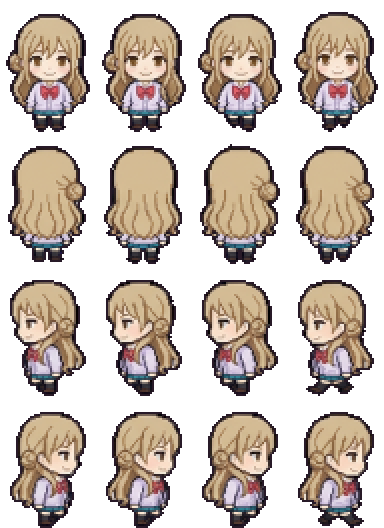
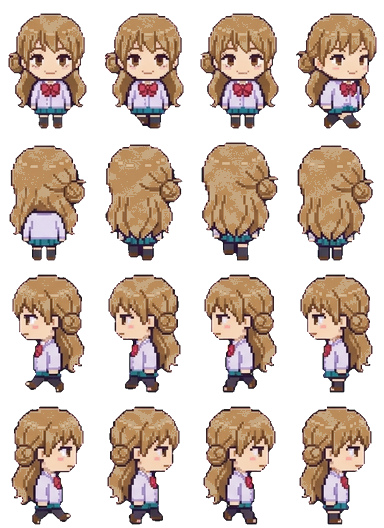
Redraw Kurumizawa Ume in the shared art style
Claude-Session: https://claude.ai/code/session_01KaPsBYLrtbRfMYNG2xeBCK

diff --git a/docs/app.js b/docs/app.js
@@ -75,7 +75,7 @@ function spr(cat, k, col, sc) {
   return `<div class="clip" style="width:${it[2] * sc}px;height:${it[3] * sc}px;POS"><img class="px" src="assets/decor/${cat}.png" alt="" style="width:${S.sw * sc}px;height:${S.sh * sc}px;margin-left:${-col * S.cw * sc}px;margin-top:${-i * S.ch * sc}px"></div>`;
 }
 const icon = (k, sz) => `<span class="itm" style="width:${sz}px;height:${sz}px"><img class="px" src="assets/ui/items.png" alt="" style="width:${IT.length * sz}px;height:${sz}px;margin-left:${-ITM[k].i * sz}px"></span>`;
-const face = (id, w) => { const s = w / 96; return `<img class="px" src="assets/ch/${id}.webp?v=55" alt="" style="position:absolute;width:${384 * s}px;height:${528 * s}px;left:${-(96 * s - w) / 2}px;top:0;max-width:none">`; };
+const face = (id, w) => { const s = w / 96; return `<img class="px" src="assets/ch/${id}.webp?v=56" alt="" style="position:absolute;width:${384 * s}px;height:${528 * s}px;left:${-(96 * s - w) / 2}px;top:0;max-width:none">`; };
 
 // ---------- 저장 ----------
 let fb = null, user = null, S = null, saveT = null;
@@ -143,7 +143,7 @@ function sleepHTML(id, r, dy) {
   const pos = r.a && r.a[0] === 'bed' ? 'left:3%;bottom:20%' : r.b && r.b[0] === 'bed' ? 'right:3%;bottom:20%' : 'left:calc(50% - 44px);bottom:6%';
   const s = 36 / 96;
   return `<div style="position:absolute;width:88px;height:56px;${pos};z-index:${dy ? 4 : 5};${dy ? `transform:translate(12px,${dy}px)` : ''}"><div style="position:absolute;inset:0;filter:brightness(.22)">
-    <div style="position:absolute;left:11px;top:1px;width:36px;height:50px;overflow:hidden;transform:rotate(-90deg)"><img class="px" src="assets/ch/${id}.webp?v=55" alt="" style="width:${384 * s}px;height:${528 * s}px;max-width:none;margin-top:${-132 * s}px"></div>
+    <div style="position:absolute;left:11px;top:1px;width:36px;height:50px;overflow:hidden;transform:rotate(-90deg)"><img class="px" src="assets/ch/${id}.webp?v=56" alt="" style="width:${384 * s}px;height:${528 * s}px;max-width:none;margin-top:${-132 * s}px"></div>
     <div style="position:absolute;left:19px;top:19px;width:67px;height:29px;border:2px solid var(--ink);border-radius:8px 6px 4px 4px;background:#8ccff5;background-image:repeating-linear-gradient(90deg,transparent 0 10px,rgba(255,255,255,.5) 10px 13px)"></div></div>
     ${dy ? '' : '<span class="emo" style="left:8px;top:-22px;color:#5b6bd6">Z z z</span>'}</div>`;
 }
@@ -153,8 +153,8 @@ function roomHTML(id, o, scale) {
     <div class="floor" style="background-color:${PAL[r.fc][1]};background-image:${tileUrl('floor', r.fl)}"></div>
     ${slot('deco', r.dc, 'left:6%;top:6%')}${slot('furn', r.a, 'left:3%;bottom:20%')}${slot('furn', r.b, 'right:3%;bottom:20%')}${slot('prop', r.pr, 'left:28%;bottom:4%;z-index:2')}
     ${id && o.sleeping && g ? sleepHTML(g, r, -16) : ''}${id && o.sleeping ? sleepHTML(id, r) : ''}${id && o.job ? `<div style="position:absolute;left:50%;top:38%;transform:translateX(-50%);z-index:5;background:#fff;border:3px solid var(--ink);border-radius:10px;padding:6px 10px;font-size:11px;text-align:center;line-height:1.5"><img src="assets/ui/ic_job.png" alt="" style="width:18px;vertical-align:-4px"> ${WORK[id] ? WORK[id][1] : esc(JOB_NAME[id]) + ' 알바 중'}${g ? `<br><small>${esc(nameOf(g))}도 같이</small>` : ''}<br><b id="jobleft">${timeLeft(o.job.until)}</b></div>` : ''}
-    ${id ? `<div class="shadow" id="shd" ${o.sleeping || o.job ? 'style="display:none"' : ''}></div><div class="man" id="man" ${o.sleeping || o.job ? 'style="display:none"' : ''}><img class="px" src="assets/ch/${id}.webp?v=55" alt="${esc(nameOf(id))}"></div><span class="emo" id="emo" hidden></span><span class="mumble" id="mum" hidden></span>` : ''}
-    ${g ? `<div class="shadow" id="gshd" ${hideG}></div><div class="man" id="gman" ${hideG}><img class="px" src="assets/ch/${g}.webp?v=55" alt="${esc(nameOf(g))}"></div><span class="emo" id="gemo" hidden></span><span class="mumble gmum" id="gmum" hidden></span>` : ''}
+    ${id ? `<div class="shadow" id="shd" ${o.sleeping || o.job ? 'style="display:none"' : ''}></div><div class="man" id="man" ${o.sleeping || o.job ? 'style="display:none"' : ''}><img class="px" src="assets/ch/${id}.webp?v=56" alt="${esc(nameOf(id))}"></div><span class="emo" id="emo" hidden></span><span class="mumble" id="mum" hidden></span>` : ''}
+    ${g ? `<div class="shadow" id="gshd" ${hideG}></div><div class="man" id="gman" ${hideG}><img class="px" src="assets/ch/${g}.webp?v=56" alt="${esc(nameOf(g))}"></div><span class="emo" id="gemo" hidden></span><span class="mumble gmum" id="gmum" hidden></span>` : ''}
     ${o.sleeping ? `<div class="night"></div><div class="sleepleft">쿨쿨 · 일어나기까지 <b id="sleepleft">${timeLeft(wakeAt(o)).replace(' 남음', '')}</b></div>` : ''}
   </div>`;
 }
@@ -167,7 +167,7 @@ function meterHTML(o) {
 const ic = (act, img, label, pressed) => `<button class="ic" data-act="${act}" ${pressed ? 'aria-pressed="true"' : ''}><img src="assets/ui/ic_${img}.png?v=2" alt="">${label}</button>`;
 
 let dropStyle = null; const cheat = {};
-const APP_V = 127, COUPONS = { NINOGUYA: 3000 };
+const APP_V = 128, COUPONS = { NINOGUYA: 3000 };
 // 쿠폰 입력 정리: 한글 자판 상태로 친 글자(ㅜㅑㅜㅐ혀ㅛㅁ)도 영어 자판 글자로 바꾸고, 대소문자·띄어쓰기·마침표는 무시해요
 const KEY = { ㄱ: 'r', ㄲ: 'R', ㄴ: 's', ㄷ: 'e', ㄸ: 'E', ㄹ: 'f', ㅁ: 'a', ㅂ: 'q', ㅃ: 'Q', ㅅ: 't', ㅆ: 'T', ㅇ: 'd', ㅈ: 'w', ㅉ: 'W', ㅊ: 'c', ㅋ: 'z', ㅌ: 'x', ㅍ: 'v', ㅎ: 'g',
   ㅏ: 'k', ㅐ: 'o', ㅑ: 'i', ㅒ: 'O', ㅓ: 'j', ㅔ: 'p', ㅕ: 'u', ㅖ: 'P', ㅗ: 'h', ㅘ: 'hk', ㅙ: 'ho', ㅚ: 'hl', ㅛ: 'y', ㅜ: 'n', ㅝ: 'nj', ㅞ: 'np', ㅟ: 'nl', ㅠ: 'b', ㅡ: 'm', ㅢ: 'ml', ㅣ: 'l',
@@ -407,7 +407,7 @@ function startTrip(k) {
   if (tg) lines[1] = `${nameOf(tg)}: ${withHim(sub(pick(GLX(tg).trip), o, c.n), tg)}`;
   const n = (FR[id] || [4, 4, 4, 4])[3], el = document.createElement('div'); el.className = 'tripview';
   el.innerHTML = `<div class="tsay"> </div><div class="tstage" style="background-image:url(assets/travel/${k}.png?v=2)"><div class="tplace">${esc(c.n)}</div>
-    <div class="twalker"><img class="px" src="assets/ch/${id}.webp?v=55" alt=""></div>${tg ? `<div class="twalker tgirl"><img class="px" src="assets/ch/${tg}.webp?v=55" alt=""></div>` : ''}<span class="emo tjoy">♪</span></div>
+    <div class="twalker"><img class="px" src="assets/ch/${id}.webp?v=56" alt=""></div>${tg ? `<div class="twalker tgirl"><img class="px" src="assets/ch/${tg}.webp?v=56" alt=""></div>` : ''}<span class="emo tjoy">♪</span></div>
     <div class="tbar"><i></i></div><button class="btn white tskip" data-tskip="1">바로 돌아오기</button>`;
   document.body.appendChild(el);
   const gimg = el.querySelector('.tgirl img'), gn = tg ? (FR[tg] || [4, 4, 4, 4])[3] : 1;
@@ -636,7 +636,7 @@ setInterval(() => { if (S && user) { tickTime(); save(); } }, 60000);
     if (nv > APP_V && !location.search.includes('u=' + nv)) { location.replace(location.pathname + '?u=' + nv); return; }
   } catch { }
   app.innerHTML = '<div class="start"><div class="egg"><div class="scr"></div></div><div class="note">불러오는 중....</div></div>';
-  const [c, t, f, it, mu, ct, tv, gl, sts] = await Promise.all(['data/chars.json', 'data/talk.json', 'data/frames.json', 'data/items.json', 'data/mumble.json', 'data/countries.json', 'data/travel.json', 'data/girls.json', 'data/sets.json'].map(u => fetch(u + '?v=127').then(r => r.ok ? r.json() : {})));
+  const [c, t, f, it, mu, ct, tv, gl, sts] = await Promise.all(['data/chars.json', 'data/talk.json', 'data/frames.json', 'data/items.json', 'data/mumble.json', 'data/countries.json', 'data/travel.json', 'data/girls.json', 'data/sets.json'].map(u => fetch(u + '?v=128').then(r => r.ok ? r.json() : {})));
   CH = c; CHM = Object.fromEntries(c.map(x => [x.id, x])); TALK = t; FR = f; IT = it; ITM = Object.fromEntries(it.map(x => [x.k, x])); MUM = mu; CTRY = ct; TRV = tv; GL = Array.isArray(gl) ? gl : []; SETS = Array.isArray(sts) ? sts : []; GLM = Object.fromEntries(GL.map(x => [x.id, x]));
   try { await initFirebase(); } catch (e) { console.warn('Firebase 연결 실패, 기기 저장으로', e); fb = null; }
   if (fb) {

diff --git a/docs/index.html b/docs/index.html
@@ -18,6 +18,6 @@
 <main id="app" aria-live="polite"></main>
 <div id="toast" role="status" hidden></div>
 <script src="firebase-config.js?v=3"></script>
-<script type="module" src="app.js?v=127"></script>
+<script type="module" src="app.js?v=128"></script>
 </body>
 </html>
